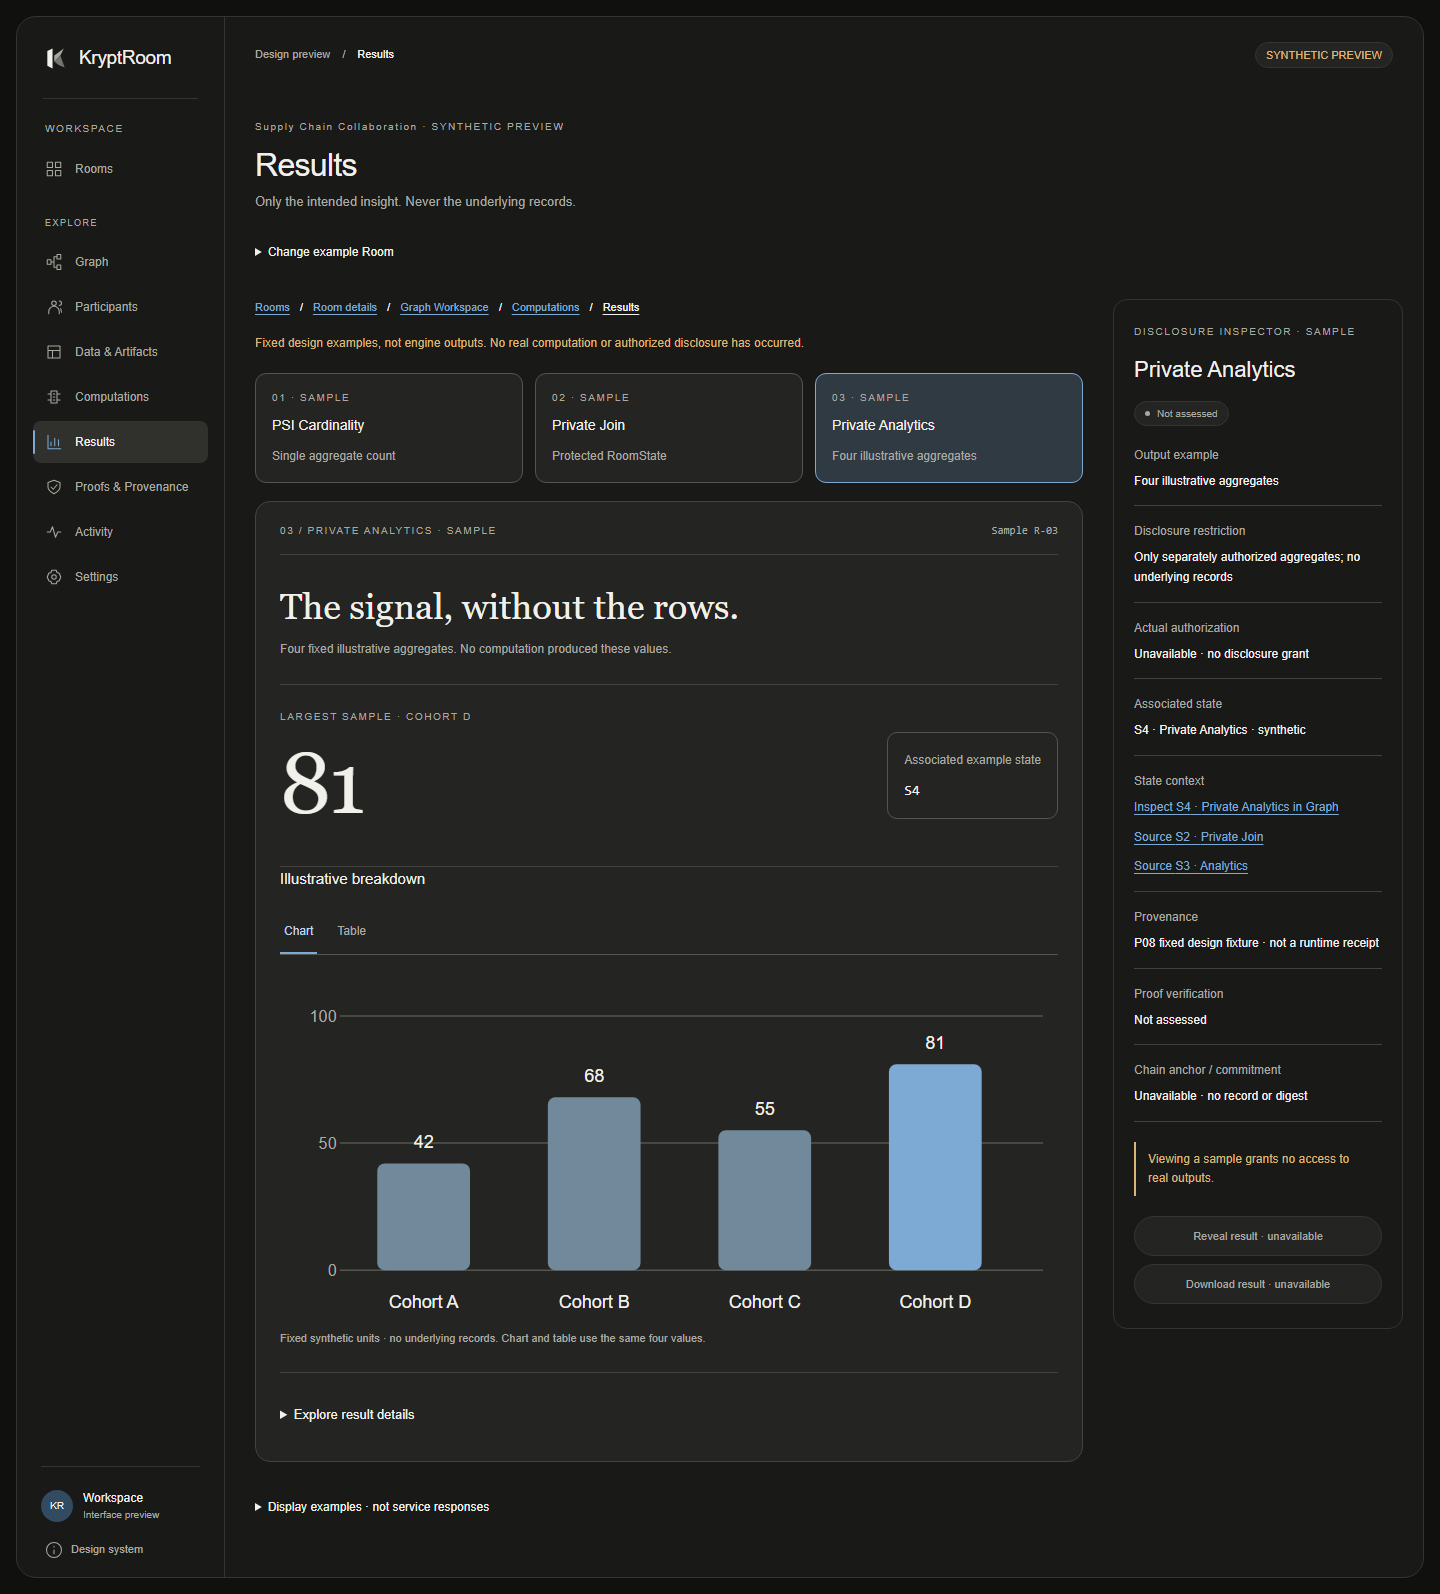
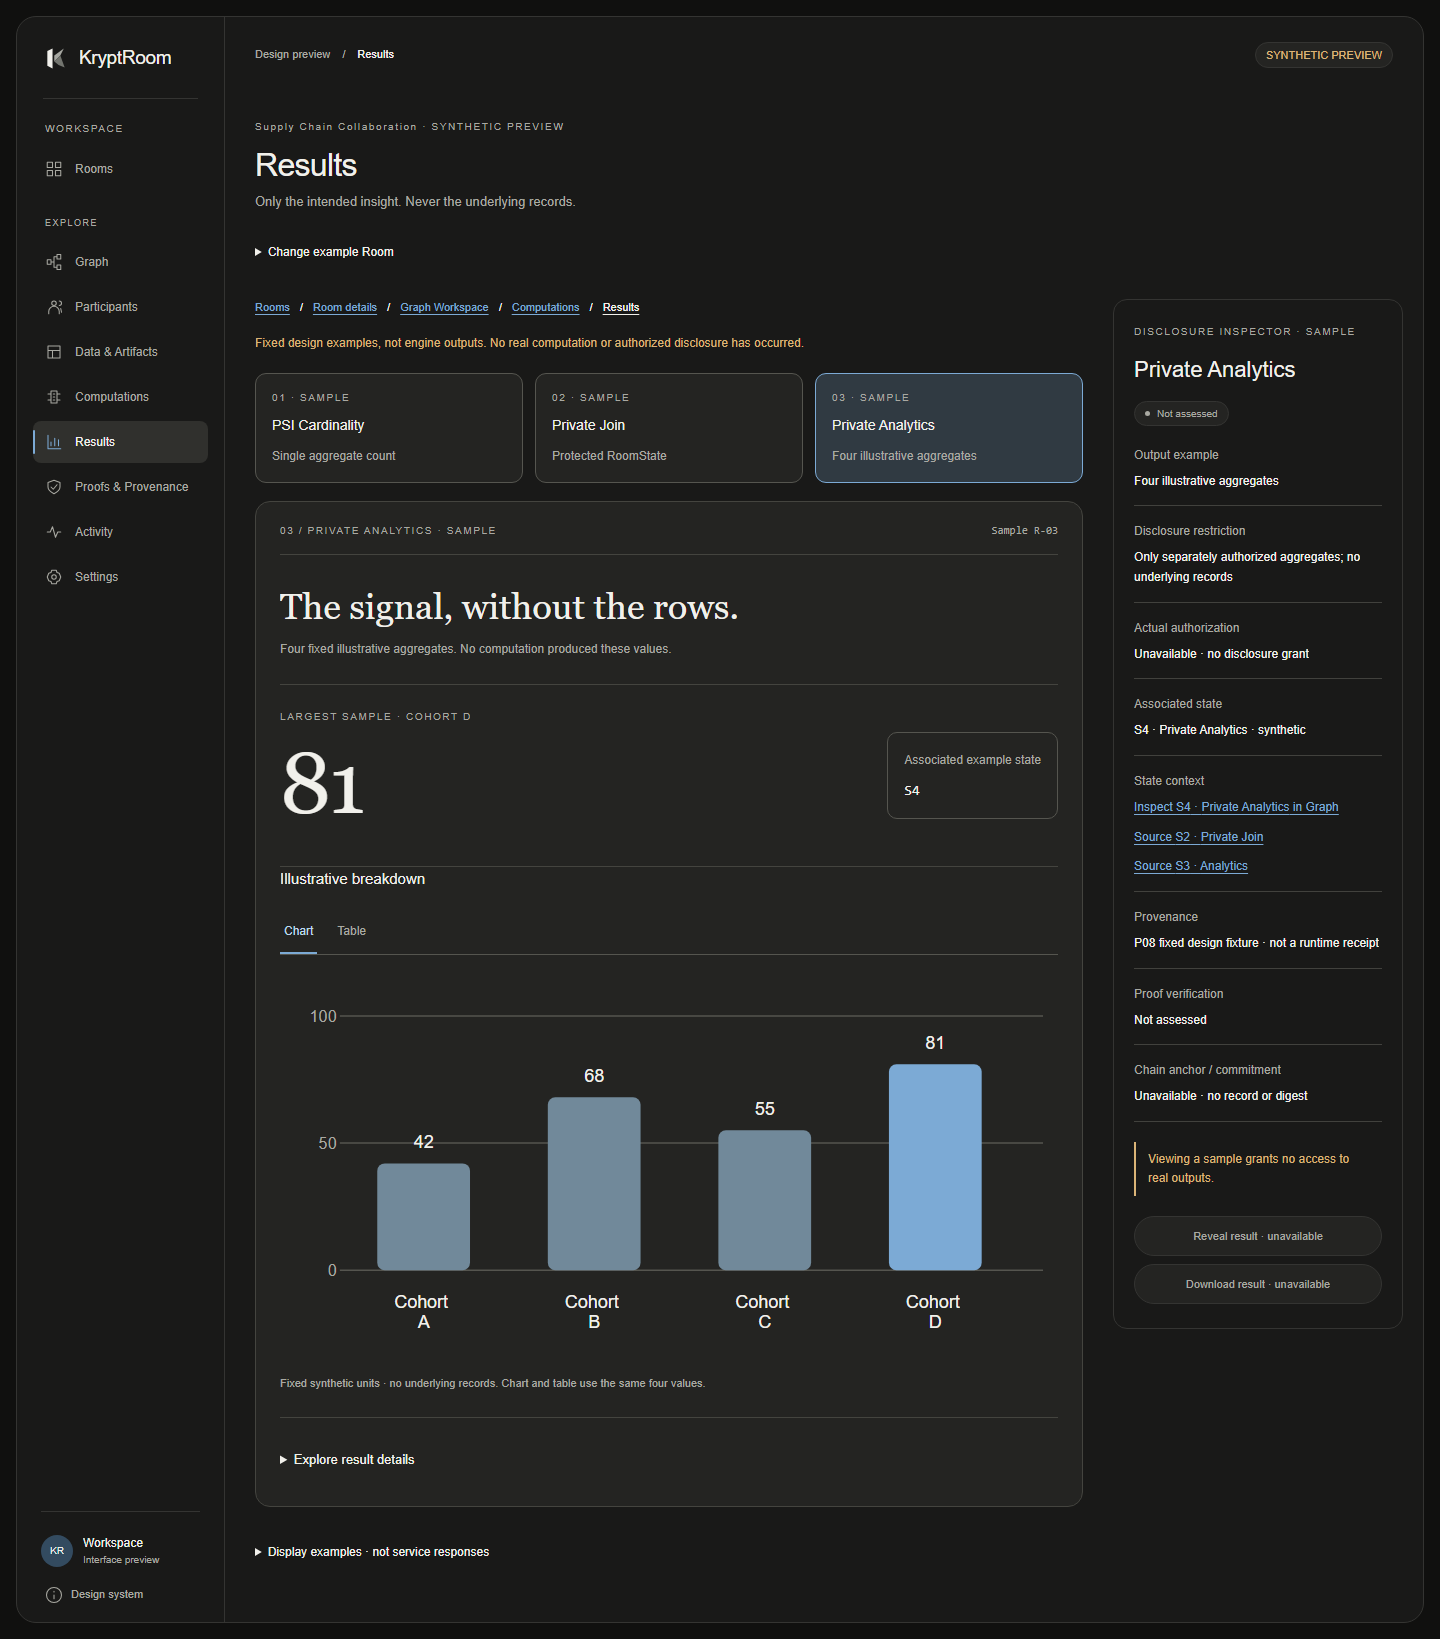
fix(web): separate analytics cohort labels on narrow screens

diff --git a/apps/web/tests/browser/operations.spec.ts b/apps/web/tests/browser/operations.spec.ts
@@ -32,6 +32,50 @@ test.afterEach(async ({ page }) => {
   // Check every complete journey before the browser fixture closes.
   expect(journeyProblems.get(page)).toEqual([]);
 });
+test("P08 chart label clearance at 320 390 tablet and desktop", async ({ page }, info) => {
+  test.setTimeout(60_000);
+  for (const width of [320, 390, 834, 1440]) {
+    await page.setViewportSize({ width, height: 1000 });
+    await page.goto(room + "/results/analytics");
+    await page.evaluate(() => document.fonts.ready);
+    const chart = page.getByRole("img", { name: /Illustrative aggregate units/ });
+    await expect(chart).toBeVisible();
+    await expect(chart.locator("title")).toHaveText("Illustrative aggregate units by cohort");
+    await expect(chart.locator("desc")).toContainText("The table view contains exactly these values.");
+    const geometry = await chart.evaluate((svg) => {
+      const bounds = svg.getBoundingClientRect();
+      const texts = [...svg.querySelectorAll("text")].map((text) => {
+        const box = text.getBoundingClientRect();
+        return { label: text.textContent?.trim(), left: box.left, right: box.right, top: box.top, bottom: box.bottom };
+      });
+      return { texts, left: bounds.left, right: bounds.right, top: bounds.top, bottom: bounds.bottom };
+    });
+    const categories = geometry.texts.filter((text) => text.label?.startsWith("Cohort"));
+    expect(categories.map((text) => text.label)).toEqual(["Cohort A", "Cohort B", "Cohort C", "Cohort D"]);
+    for (let i = 1; i < categories.length; i++) {
+      expect(categories[i].left - categories[i - 1].right, `${width}px category clearance`).toBeGreaterThanOrEqual(8);
+    }
+    // Actual rendered SVG boxes, not text-length estimates: catch collisions
+    // between values, categories and axes, plus clipping at the SVG boundary.
+    for (const [i, text] of geometry.texts.entries()) {
+      expect(text.left).toBeGreaterThanOrEqual(geometry.left);
+      expect(text.right).toBeLessThanOrEqual(geometry.right);
+      expect(text.top).toBeGreaterThanOrEqual(geometry.top);
+      expect(text.bottom).toBeLessThanOrEqual(geometry.bottom);
+      for (const other of geometry.texts.slice(i + 1)) {
+        expect(text.right <= other.left || other.right <= text.left || text.bottom <= other.top || other.bottom <= text.top,
+          `${width}px collision: ${text.label} / ${other.label}`).toBe(true);
+      }
+    }
+    expect(await page.evaluate(() => document.documentElement.scrollWidth <= innerWidth)).toBe(true);
+    await page.locator(".analytics-chart").screenshot({ path: info.outputPath(`chart-${width}.png`) });
+    const values = await chart.locator("text").filter({ hasText: /^(42|68|55|81)$/ }).allTextContents();
+    expect(values).toEqual(["42", "68", "55", "81"]);
+    await page.getByRole("tab", { name: "Table", exact: true }).click();
+    await expect(page.getByRole("table").getByRole("cell")).toHaveText(values);
+    await expect(page.getByRole("table").getByRole("rowheader")).toHaveText(categories.map((text) => text.label!));
+  }
+});
 test("P07 complete Clean workflow and Room Graph integration", async ({ page }, info) => {
   await page.goto("/preview/rooms");
   await page.getByRole("button", { name: "Expand Supply Chain Collaboration" }).click();

diff --git a/apps/web/src/features/operations/result-visuals.tsx b/apps/web/src/features/operations/result-visuals.tsx
@@ -26,14 +26,15 @@ export function JoinResult({ stateLabel }: { stateLabel: string }) {
 }
 export function AnalyticsChart() {
   const id = useId();
-  return <figure className="analytics-chart"><svg viewBox="0 0 520 240" role="img" aria-labelledby={`${id}-title ${id}-desc`}>
+  return <figure className="analytics-chart"><svg viewBox="0 0 520 270" role="img" aria-labelledby={`${id}-title ${id}-desc`}>
     <title id={`${id}-title`}>Illustrative aggregate units by cohort</title>
     <desc id={`${id}-desc`}>Fixed samples: Cohort A 42, B 68, C 55, D 81. Not computed from private data. The table view contains exactly these values.</desc>
     {[0, 50, 100].map((v) => <g key={v}><path className="chart-grid" d={`M40 ${200 - v * 1.7} H510`} /><text className="chart-axis" x="38" y={204 - v * 1.7} textAnchor="end">{v}</text></g>)}
     {sampleAggregates.map((bar, i) => <g key={bar.cohort}><rect className={i === 3 ? "chart-bar emphasized" : "chart-bar"}
       x={65 + i * 114} y={200 - bar.value * 1.7} width="62" height={bar.value * 1.7} rx="5" />
       <text x={96 + i * 114} y={190 - bar.value * 1.7} textAnchor="middle">{bar.value}</text>
-      <text x={96 + i * 114} y="225" textAnchor="middle">Cohort {bar.cohort}</text></g>)}
+      <text x={96 + i * 114} y="225" textAnchor="middle"><tspan>Cohort </tspan>
+        <tspan x={96 + i * 114} dy="1.15em">{bar.cohort}</tspan></text></g>)}
   </svg><figcaption>Fixed synthetic units · no underlying records. Chart and table use the same four values.</figcaption></figure>;
 }
 export function AnalyticsTable() {

diff --git a/docs/m8/pr4/README.md b/docs/m8/pr4/README.md
@@ -110,7 +110,8 @@ Necessary adaptations:
   vertical space. The inspector covers all requested authority boundaries.
 - Desktop sidebar/right inspector; tablet compact rail/below-content inspector;
   mobile stacked categories/inputs and bottom sheet, not scaled desktop controls.
-- Mobile chart labels are larger; accessible SVG title/description and a semantic
+- Chart categories use two lines (Cohort / A–D), retaining larger mobile text;
+  accessible SVG title/description and a semantic
   table provide alternate reading. At 320px the page remains within its viewport.
 - Phase emphasis lasts 280ms and is removed under reduced motion. Phase selection
   remains visible without motion. Keyboard tabs support Left/Right/Home/End.
@@ -152,8 +153,8 @@ captures above are committed; they contain only the synthetic interface.
 - Existing M5 Python: 13 PASS; existing M7 Python: 45 PASS in `.venv-m7`.
   The default host Python initially lacked `cryptography`; using the existing
   project environment resolved the import failure without installing packages.
-- Production Chromium PR1–PR4: **52 PASS, 2 inherited non-mobile sheet cases
-  intentionally skipped** (54 total); all 12 new PR4 cases PASS. Desktop
+- Production Chromium PR1–PR4 after the review follow-up: **55 PASS, 2 inherited
+  non-mobile sheet cases intentionally skipped** (57 total); all 15 PR4 cases PASS. Desktop
   1440×1000, tablet 834×1112, mobile 390×844, narrow checks 320×740.
   Coverage includes keyboard/focus return, sheets, reduced motion, all five
   system states, exact-state navigation, immutable source state, storage empty,
@@ -177,6 +178,39 @@ A development-server-generated AGENTS file was removed from the PR scope after
 reading its local Next guidance; no pre-existing instruction file was removed.
 
 ## Privacy, cryptographic controls and acceptance
+
+### PR #17 targeted visual review follow-up — 2026-10-23
+
+The mobile `.analytics-chart text { font-size: 26px; }` rule made single-line
+category labels too close when the 520-unit SVG scaled down. The new browser
+regression test failed against the original production build at 320px: the
+first adjacent category clearance was only **4.9586 CSS px**, below the explicit
+8px minimum. This was a spacing/readability defect, not a changed sample value.
+
+The bounded correction uses two SVG `tspan` lines per category (Cohort / A–D)
+and extends the viewBox height from 240 to 270 to avoid clipping the second line.
+Bar coordinates, axis coordinates, values, colors, type sizes and Design System
+are unchanged. The shared fixed values remain A=42, B=68, C=55, D=81. SVG title,
+description, accessible naming and the semantic Table alternative remain intact.
+
+The added Playwright case runs at **320, 390, 834 and 1440px** in all three
+browser projects. After fonts load, it checks actual rendered text rectangles:
+at least 8px between adjacent category boxes, no pairwise category/value/axis
+collision, and no text outside the SVG. It also checks page overflow, all four
+category names, exact chart/table parity and the SVG title/description. The
+existing network/page-error guards cover this case too. The original version
+fails this test and the corrected version passes; no assertion was relaxed.
+
+Lint, typecheck, production build (50 pages), 67 unit tests and the full browser
+suite were rerun. Chromium/Axe coverage remains bounded, not a claim of all-browser
+or full WCAG certification. Remote checks for the new HEAD are recorded in the PR.
+Affected Analytics full-page/viewport captures have been refreshed, including
+`app-result-320.png`. Focused chart captures: [320px](app-chart-320.png),
+[390px](app-chart-390.png), [tablet](app-chart-834.png), [desktop](app-chart-1440.png).
+Only the chart markup, browser test and M8 evidence/documentation were changed;
+CSS, dependencies, CI, M1–M7, cryptographic fixtures and backend boundaries were not.
+
+### Unchanged boundaries
 
 Diff checks against the base must show no M1–M7 code, contracts, fixtures,
 generators, workflows, CI classifier, dependencies or runtime security changes.

diff --git a/CHANGELOG.md b/CHANGELOG.md
@@ -6,6 +6,8 @@ All notable project changes are recorded here. The project follows milestone-ori
 
 ### Added
 
+- PR #17 visual review follow-up: split Analytics cohort labels into two SVG lines with sufficient viewBox height, preserve all four chart/table values, add rendered-box collision/clipping/overflow checks at 320/390/834/1440px and refresh visual evidence. No Design System, CI, dependency, backend or M1–M7 change.
+
 - M8 PR4 synthetic Computations & Results: P07 three-phase Clean explanation with ordered multi-parent selections and fail-closed Readiness/Review; P08 Premium V3 separate PSI/Join/Analytics views, fixed-value chart/table, progressive details and exact-state Graph navigation. Responsive inspector and browser/privacy coverage reuse PR1–PR3. Correct a pre-existing multi-child SVG title hydration mismatch in Room mini-history. No backend, dependency, CI or M1–M7 change. See `docs/m8/pr4/README.md`.
 
 - M8 PR3 interactive synthetic Graph Workspace: ordered multi-parent DAG, Classic/Detailed/Focus, pointer/touch pan, zoom/fit, keyboard navigation, accessible state list and responsive inspector. Based on verified PR #15 merge `a88df46`; production Graph stays unavailable. No M1–M7, dependency or CI routing change. See `docs/m8/pr3/README.md`.

diff --git a/TODO.md b/TODO.md
@@ -145,6 +145,7 @@ and run 39381943437 contains the authoritative public evidence package.
 - [x] Preserve Room identity, immutable ordered parent references and exact-state Graph navigation.
 - [x] Exercise frontend regression, keyboard, responsive, system-state and privacy tests.
 - [x] Record source conversions, application captures and explicit HTML adaptations in ADR-019/report.
+- [x] Address PR #17 narrow Analytics label spacing with a failing-then-passing browser regression, four-width visual evidence and unchanged chart/table values.
 - [ ] Independent PR4 review and final-head CI disposition; **do not automatically merge**.
 - [ ] Authenticated services and real disclosure remain separately scoped future work.
 - [ ] M8-SEC-001 reevaluation before PR7 or 2026-11-21, whichever is earlier; no renewal.
